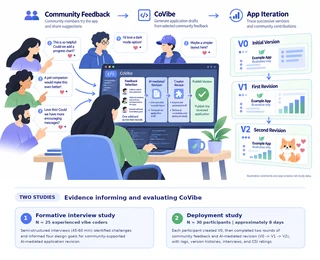
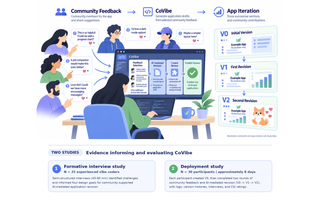
Unify research covers with white padded canvases

diff --git a/index.html b/index.html
@@ -19,7 +19,7 @@
     <title>Yutong Chen — Portfolio</title>
     <style>@media (hover:hover) and (pointer:fine){html,html *{cursor:none!important}}</style>
     <link rel="preload" as="image" href="assets/site/home/portrait-bus.webp" imagesrcset="assets/site/home/portrait-bus-480.webp 480w, assets/site/home/portrait-bus-960.webp 960w, assets/site/home/portrait-bus.webp 2000w" imagesizes="100vw" fetchpriority="high" />
-    <link rel="stylesheet" href="styles.css?v=education-20261027b" />
+    <link rel="stylesheet" href="styles.css?v=white-covers-20261027" />
   </head>
   <body>
     <noscript><p class="noscript-message">This portfolio needs JavaScript for project navigation. You can still contact Yutong at <a href="mailto:chenyutong11126@gmail.com">chenyutong11126@gmail.com</a>.</p></noscript>
@@ -259,7 +259,7 @@
       <div class="cursor is-hidden" aria-hidden="true"></div>
       <p class="sr-only" id="route-status" aria-live="assertive"></p>
     </main>
-    <script src="script.js?v=research-fulltext-20261024"></script>
+    <script src="script.js?v=white-covers-20261027"></script>
     <script type="application/ld+json">
       {"@context":"https://schema.org","@type":"Person","name":"Yutong Chen","alternateName":"陈宇同","url":"https://yutongchenlailai.github.io/yutong-portfolio/","jobTitle":"HCI Researcher and Creative Technologist","knowsAbout":["Creativity and Cognition","Human–AI Interaction","Human–AI Co-Creation","Embodied Interaction","Speculative Interactive Systems","AI-assisted Prototyping"],"alumniOf":[{"@type":"CollegeOrUniversity","name":"Harbin Institute of Technology, Shenzhen"},{"@type":"CollegeOrUniversity","name":"Royal College of Art"}],"sameAs":["https://scholar.google.com/citations?hl=en&user=yYgrzP8AAAAJ"]}
     </script>

diff --git a/styles.css b/styles.css
@@ -1451,3 +1451,6 @@ button:disabled{cursor:wait;opacity:.55}
 .education-documents a{display:block;max-width:100%;width:280px}
 .education-evidence .education-documents img{display:block;width:100%;height:auto;margin:0}
 .education-entry{min-width:0}.education-entry>p{margin:0}
+
+/* Preserve the complete research figures inside a pure-white canvas. */
+img[src*="community-feedback-vibe-coding/"][src*="cover"],img[src*="sketches-as-previews/"][src*="cover"]{object-fit:contain!important;background:#fff!important}

diff --git a/script.js b/script.js
@@ -1,4 +1,4 @@
-const MEDIA_REVISION = "20261022-covibe";
+const MEDIA_REVISION = "20261027-white-covers";
 const VALUE_MACHINE_COVER_REVISION = "bb51a916";
 const VIVID_PLATFORM_URL = "https://community-memory-prototype.vercel.app/";
 const media = (src) =>
